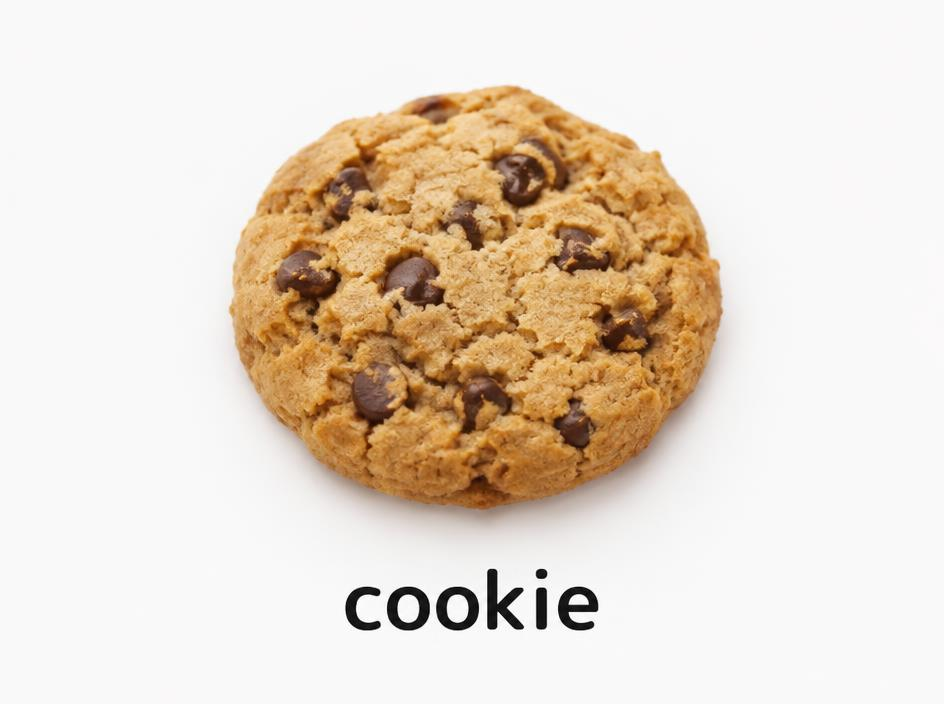
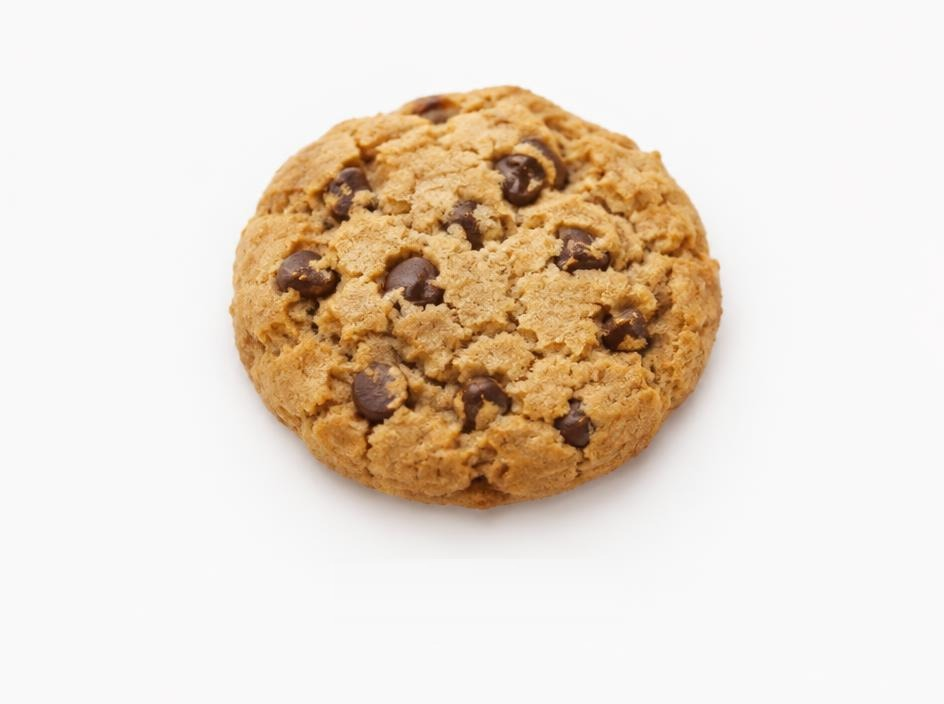
110 new word images (cloud-generated, fills gap list) + 14 re-generated to remove printed text; word-images coverage test; vitest timeout bump for audio-coverage scan
Generated with [Devin](https://devin.ai)

Changed region(s): [[0.3686, 0.8125, 0.6451, 0.9062]]

diff --git a/src/test/word-images.test.ts b/src/test/word-images.test.ts
@@ -1,0 +1,18 @@
+import { describe, it, expect } from 'vitest';
+import { WORD_IMAGES } from '@/lib/word-images';
+
+// docs/image-gap-list.md 列出的 110 个缺图词：每个都必须在 App 里能找到对应照片
+const GAP_WORDS = 'account agreement allergic apartment appointment arrange athletic automatic band bold borrow brain breath buy celebrate cheap cheek class collect college compare connect cook correct courage deadline delayed delighted desert dessert detail dime discount email evening examine find fun gain gap gun headline help hit hold homework hop housework hurry invite label land late leather live look loose lose love main meal meeting money morning network night older order pain password personal platform principal prize protect quiet quit remember rent repair repeat rest retail return salty sample say scandal see sick sign size spicy stick suit suite sweep sweet talk thick time toffee wash weakness weather weekday weekend word work worry'.split(' ');
+
+describe('word images', () => {
+  it('covers all 110 gap words', () => {
+    expect(GAP_WORDS).toHaveLength(110);
+    expect(GAP_WORDS.filter(w => !WORD_IMAGES[w])).toEqual([]);
+  });
+  it('keeps confusable pairs on different photos', () => {
+    const pairs: [string, string][] = [['desert', 'dessert'], ['suit', 'suite'], ['loose', 'lose'], ['quiet', 'quit'], ['look', 'see']];
+    for (const [a, b] of pairs) {
+      expect(WORD_IMAGES[a]).not.toBe(WORD_IMAGES[b]);
+    }
+  });
+});

diff --git a/vitest.config.ts b/vitest.config.ts
@@ -9,6 +9,7 @@ export default defineConfig({
     globals: true,
     setupFiles: ["./src/test/setup.ts"],
     include: ["src/**/*.{test,spec}.{ts,tsx}"],
+    testTimeout: 30000,
   },
   resolve: {
     alias: { "@": path.resolve(__dirname, "./src") },
